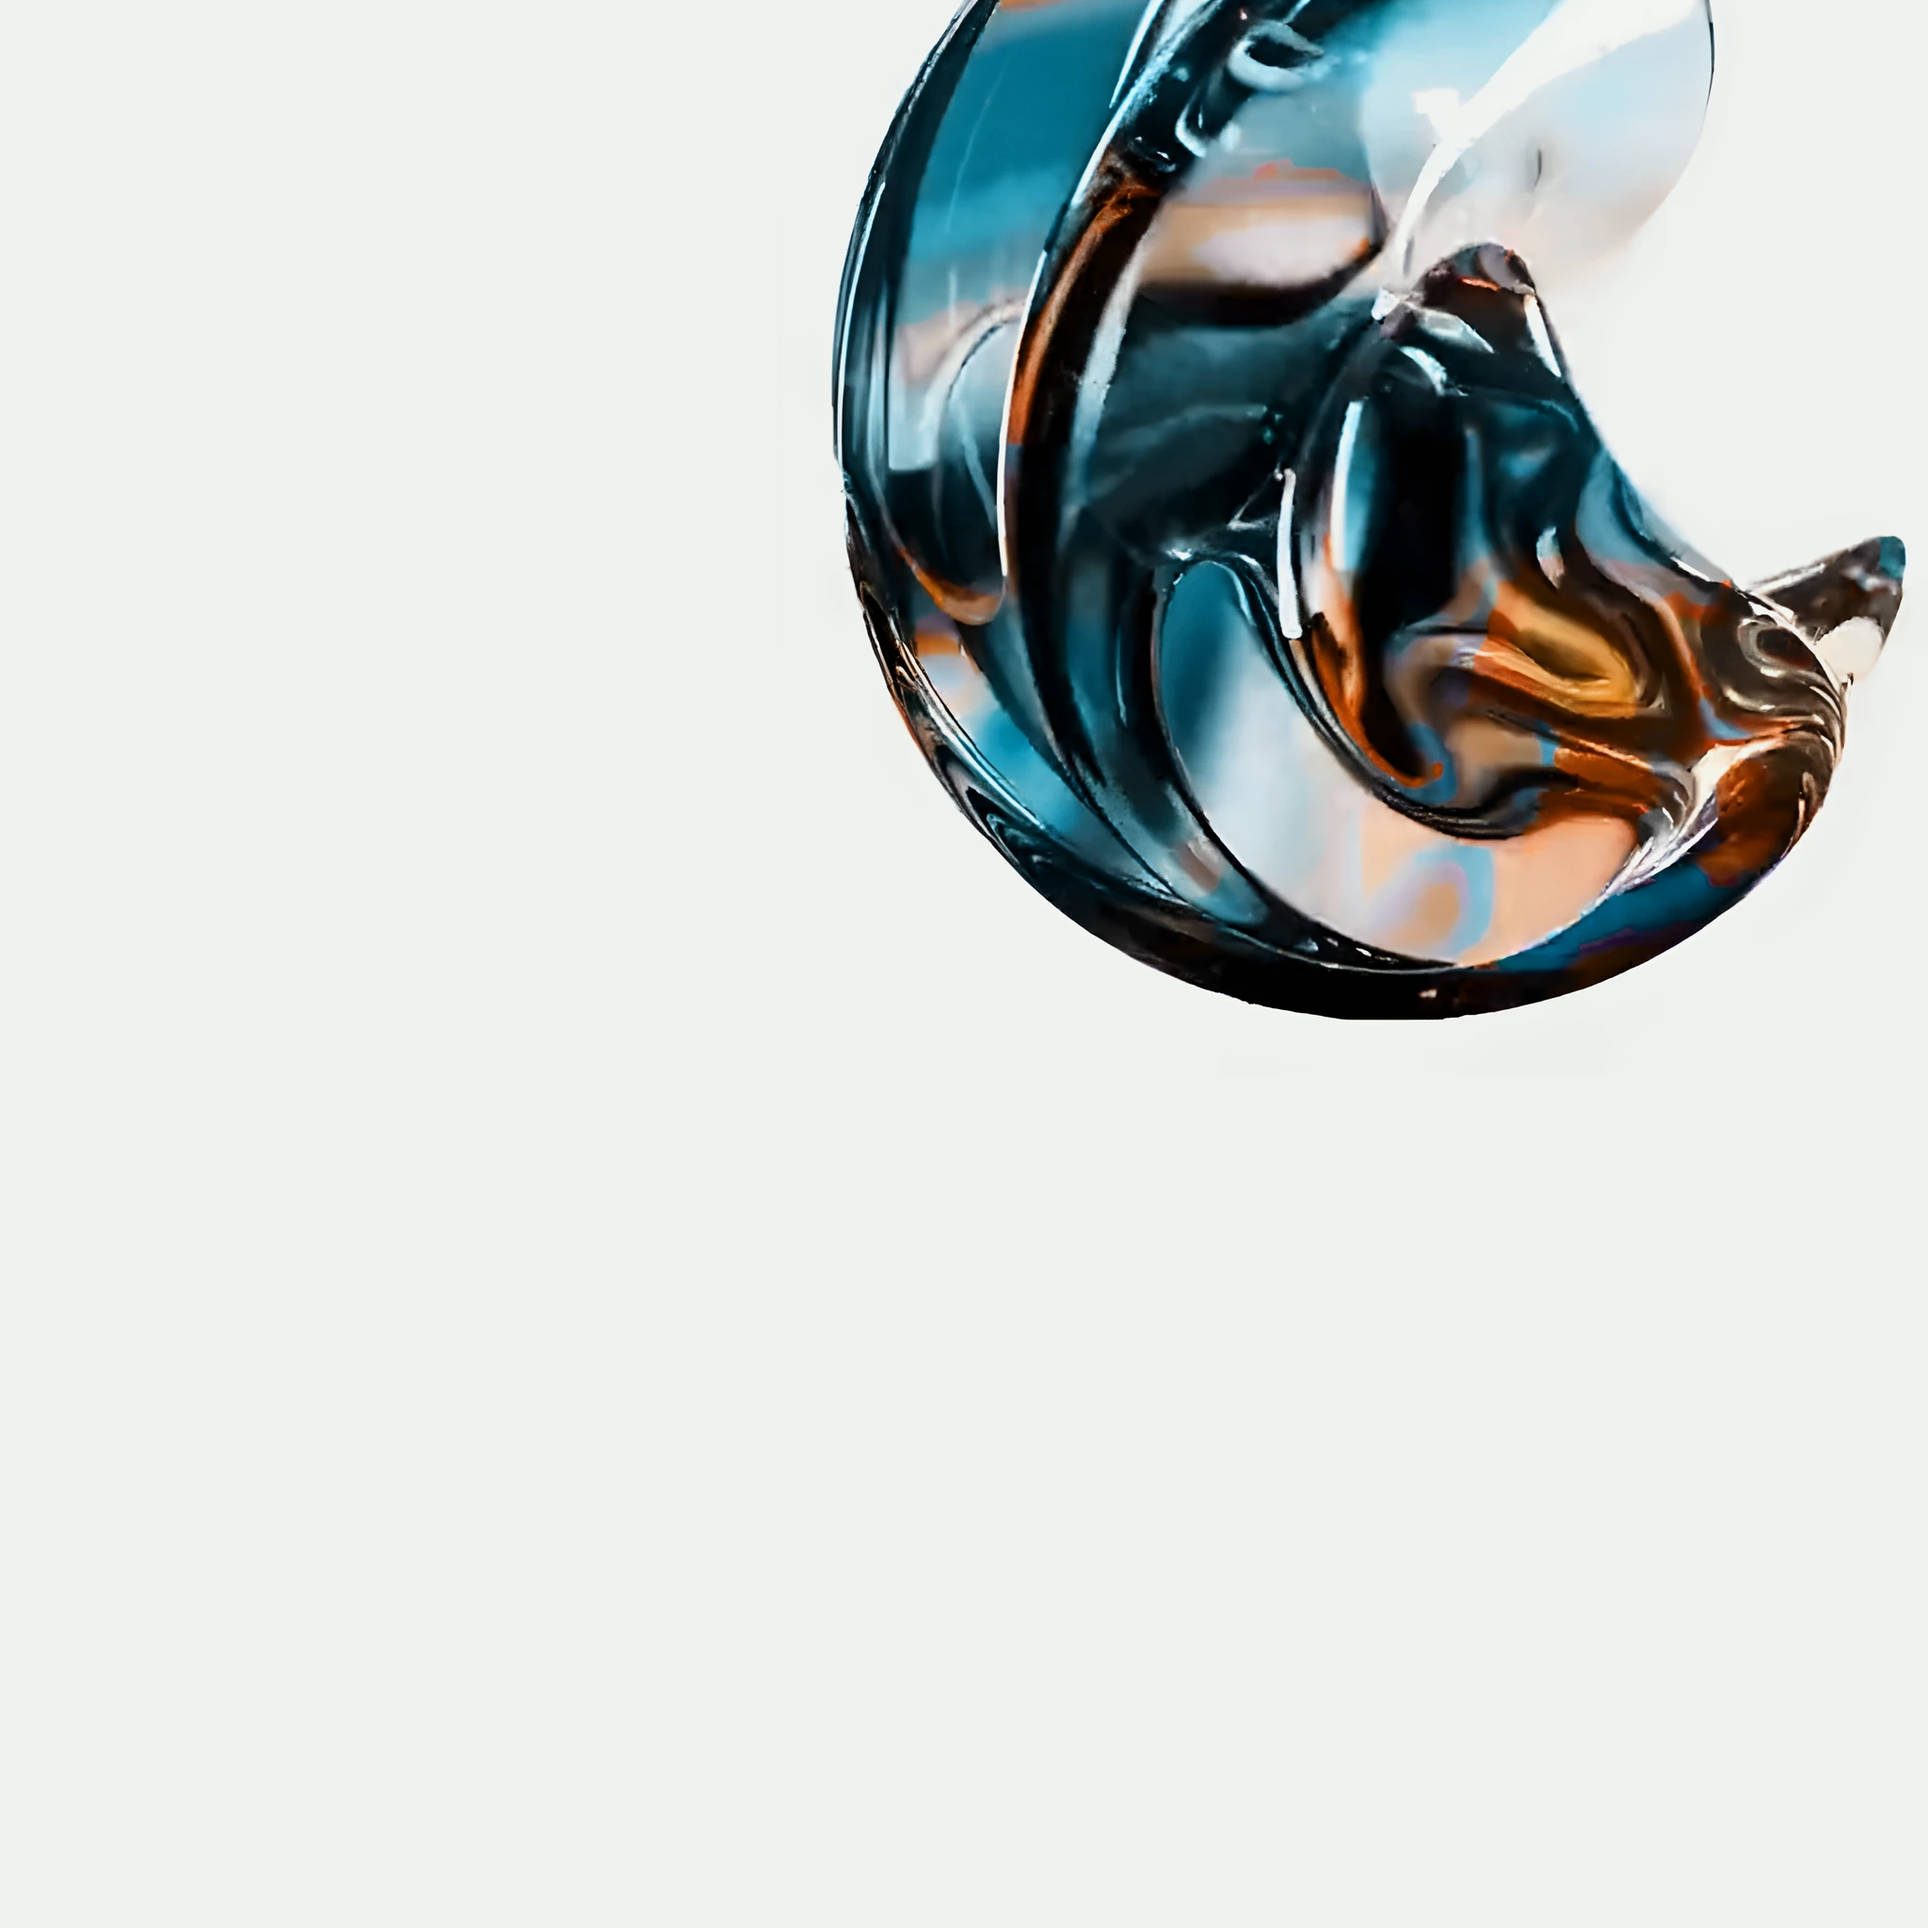
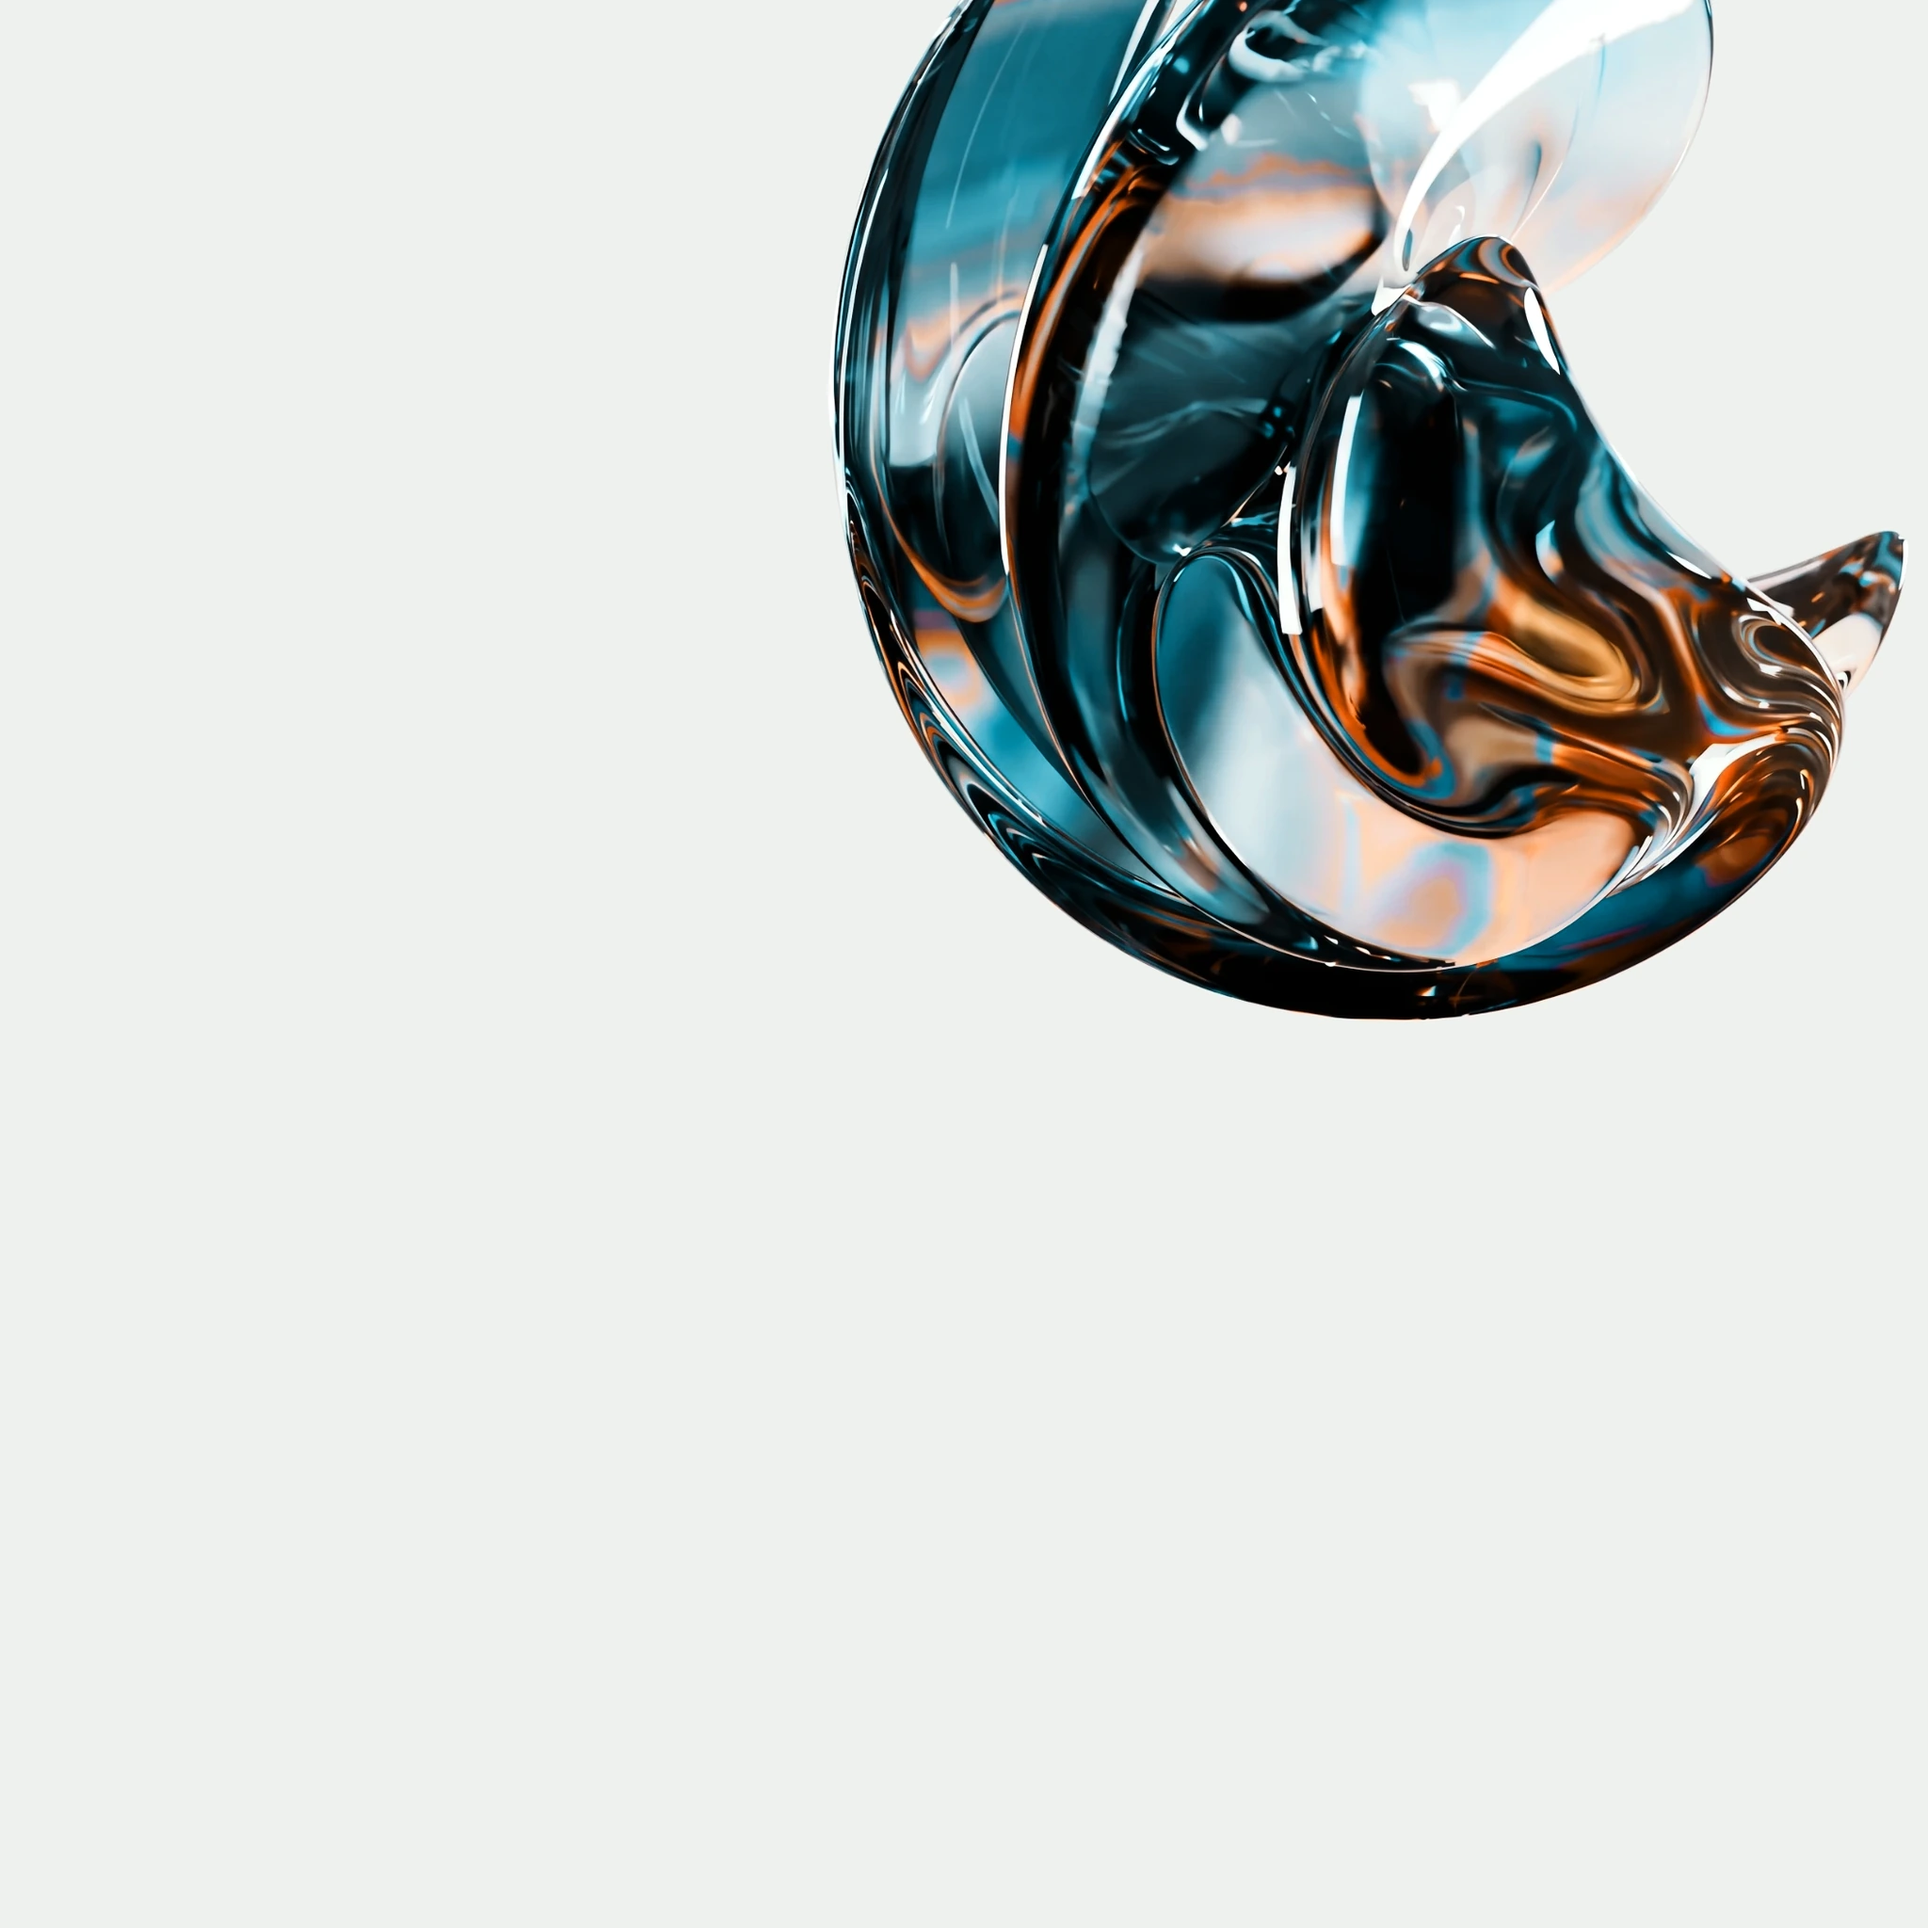
Sharper +40% and 2-3x sculpture images from Higgsfield renders
The two card images were cut from a compressed video frame. They are
replaced with sharp Higgsfield re-renders of the same two poses: the
watermark is painted out on the plain background, the grey is matched
to the 1 hour card, the colour gets a light grade to glass-3's teal and
copper (no extra sharpening), and the placement is unchanged.

Claude-Session: https://claude.ai/code/session_01Jbk7wbV2RafrwvkAWUkHj8

diff --git a/10x-affiliation/README.md b/10x-affiliation/README.md
@@ -57,9 +57,10 @@ can route to the right partner manager.
   template prompt, re-encoded for the web. Swap in 10X-owned Higgsfield loops when credits allow:
   same file names, start frame = end frame, and refresh the posters in `public/videos/posters/`.
 - `sculpture-1.webp` and `sculpture-2.webp` (the +40% and 2-3x cards) are poses of the glass
-  sculpture from `glass.mp4` (frames 121 and 91), upscaled with Real-ESRGAN x4plus, set on glass-3's
-  grey, graded like the videos and framed like glass-3: top-right, cropped by the top edge, ending
-  above each card's caption. 2048px, WebP quality 92.
+  sculpture from `glass.mp4` (frames 121 and 91), re-rendered sharp in Higgsfield (~1200px objects),
+  watermark removed, set on glass-3's grey, lightly graded to glass-3's teal and copper (no extra
+  sharpening) and framed like glass-3: top-right, cropped by the top edge, ending above each card's
+  caption. 2048px, WebP quality 92.
 - The 10X Trader panel's coins are live three.js (`src/coin/`): `coin3d.ts`, `logo.ts`, `stage.ts`
   and `motion.ts` are copied unchanged from the 10x-trader project, so the coin is exactly that
   site's coin; `trio.ts` only places the three coins and rocks them gently in place (a 3.2s loop:
